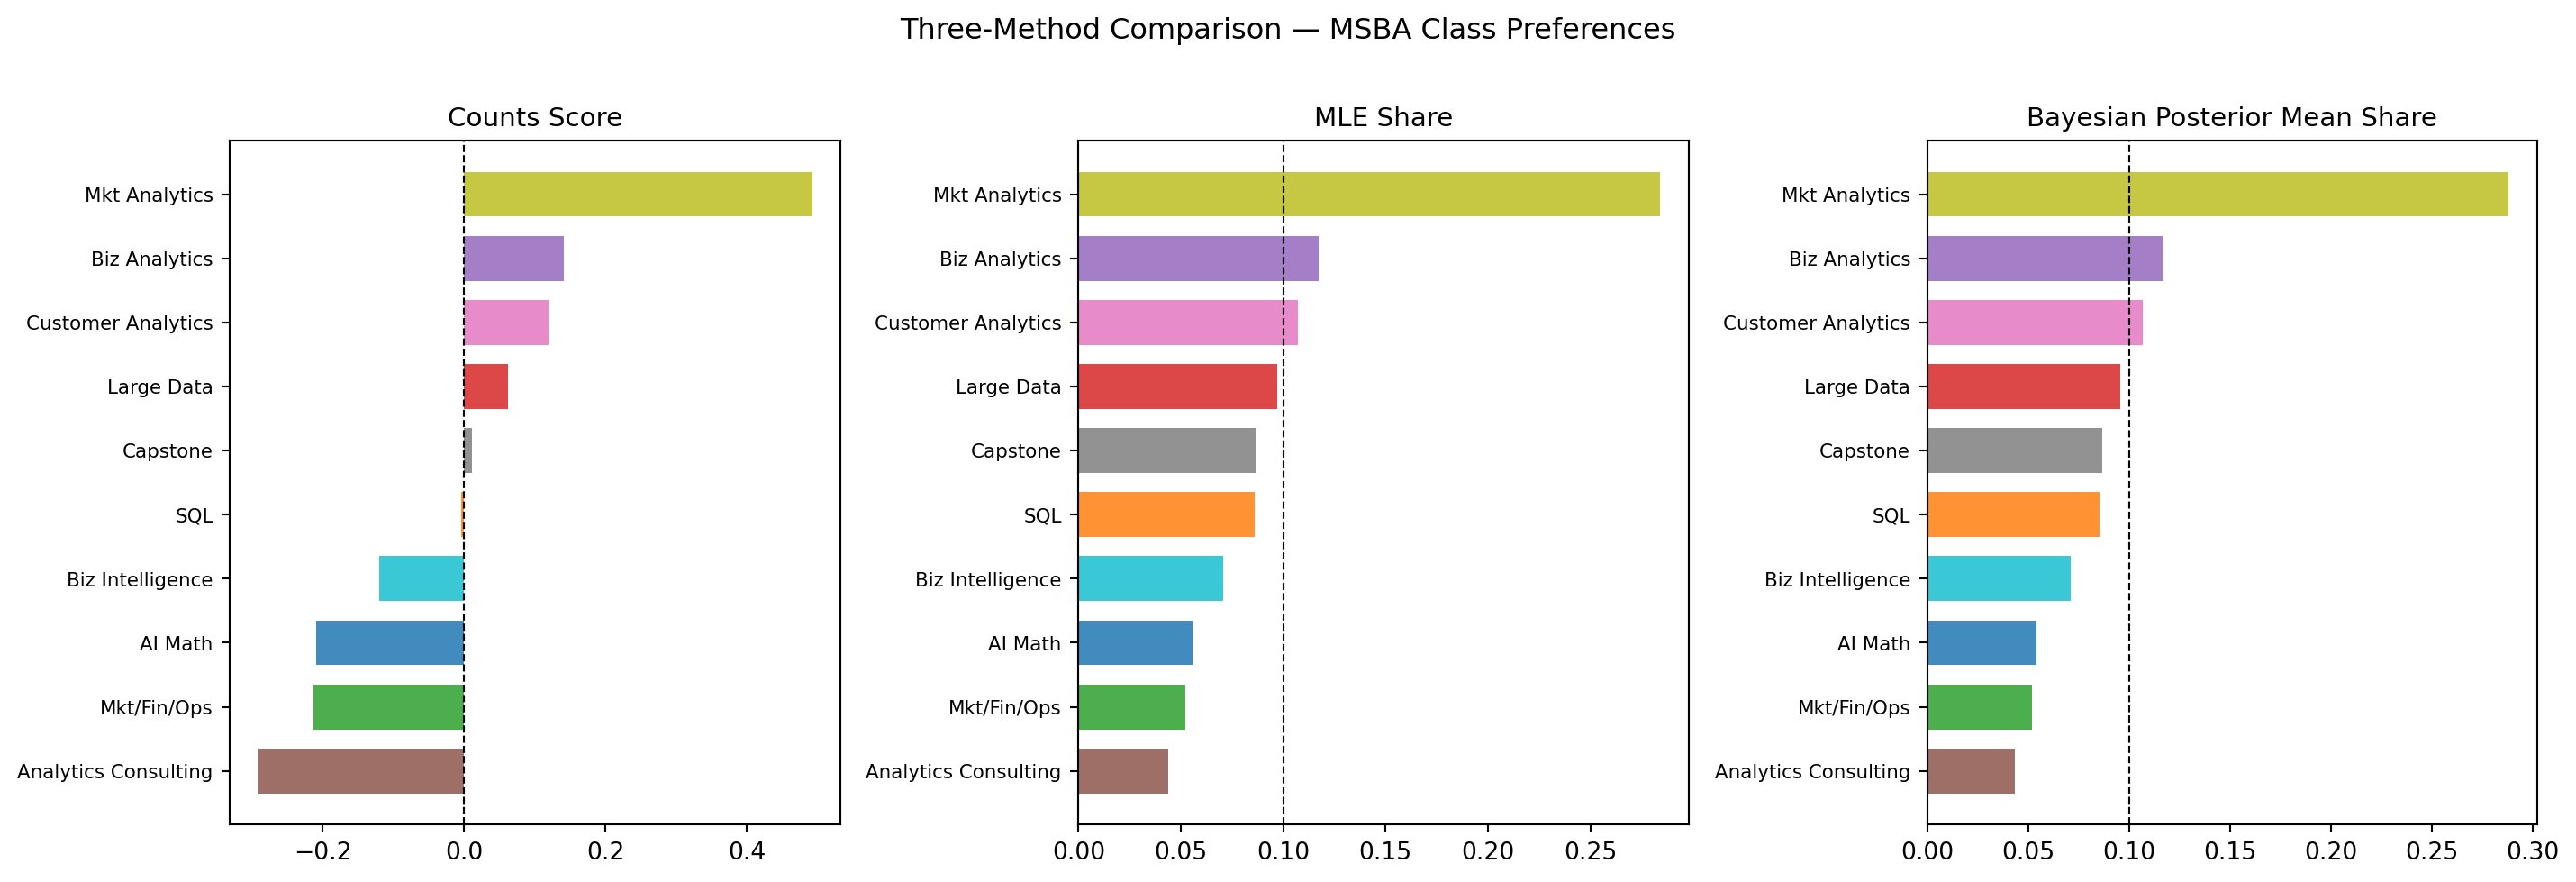
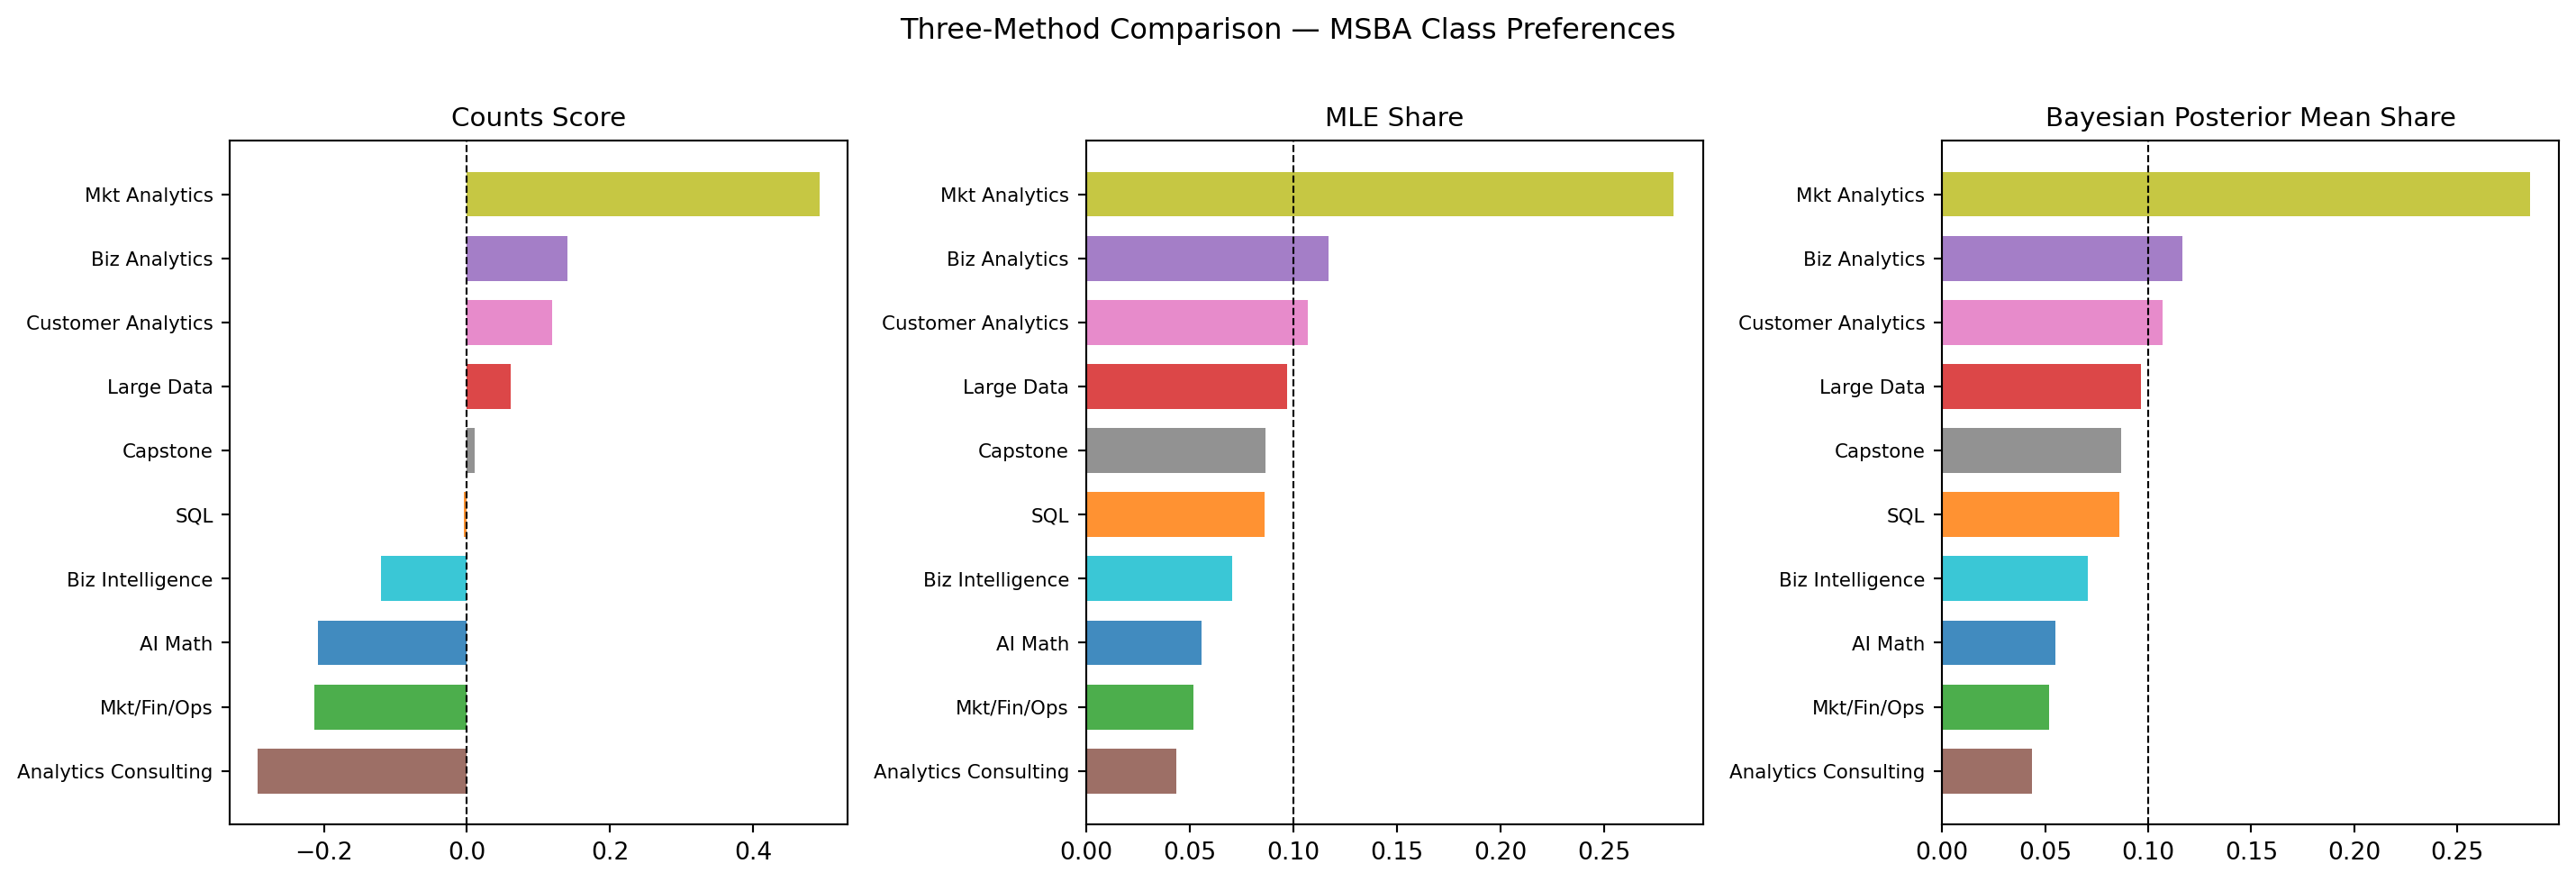
hw4 final

diff --git a/docs/hw4_questions.html b/docs/hw4_questions.html
@@ -274,7 +274,7 @@ window.Quarto = {
 </section>
 <section id="the-data" class="level2">
 <h2 class="anchored" data-anchor-id="the-data">The Data</h2>
-<div id="74975f25" class="cell" data-execution_count="1">
+<div id="7af2a63e" class="cell" data-execution_count="1">
 <details class="code-fold">
 <summary>Code</summary>
 <div class="code-copy-outer-scaffold"><div class="sourceCode cell-code" id="cb1"><pre class="sourceCode python code-with-copy"><code class="sourceCode python"><span id="cb1-1"><a href="#cb1-1" aria-hidden="true" tabindex="-1"></a><span class="im">import</span> pandas <span class="im">as</span> pd</span>
@@ -328,7 +328,7 @@ Total tasks           : 680</code></pre>
 </div>
 </div>
 <p>Note: the raw data contains a phantom “Item 11” with no label, appearing in truncated tasks of only 2 rows. These tasks are excluded — every retained task has exactly 4 rows, one best pick, and one worst pick.</p>
-<div id="[phone redacted]" class="cell" data-execution_count="2">
+<div id="45bf44ce" class="cell" data-execution_count="2">
 <details class="code-fold">
 <summary>Code</summary>
 <div class="code-copy-outer-scaffold"><div class="sourceCode cell-code" id="cb3"><pre class="sourceCode python code-with-copy"><code class="sourceCode python"><span id="cb3-1"><a href="#cb3-1" aria-hidden="true" tabindex="-1"></a><span class="co"># ── Sanity check ───────────────────────────────────────────────────────────────</span></span>
@@ -344,7 +344,7 @@ Total tasks           : 680</code></pre>
 Every task has exactly one worst: True</code></pre>
 </div>
 </div>
-<div id="e288dde3" class="cell" data-execution_count="3">
+<div id="8202c8a6" class="cell" data-execution_count="3">
 <details class="code-fold">
 <summary>Code</summary>
 <div class="code-copy-outer-scaffold"><div class="sourceCode cell-code" id="cb5"><pre class="sourceCode python code-with-copy"><code class="sourceCode python"><span id="cb5-1"><a href="#cb5-1" aria-hidden="true" tabindex="-1"></a><span class="co"># ── Exposure counts ────────────────────────────────────────────────────────────</span></span>
@@ -374,7 +374,7 @@ Every task has exactly one worst: True</code></pre>
 <p>The counts analysis is the simplest summary of MaxDiff data. For each item <span class="math inline">\(j\)</span>, we compute:</p>
 <p><span class="math display">\[\text{score}_j = \%\text{best}_j - \%\text{worst}_j\]</span></p>
 <p>where <span class="math inline">\(\%\text{best}_j\)</span> is the fraction of times item <span class="math inline">\(j\)</span> was picked best out of the times it was shown, and similarly for worst. A score near +1 means the item is almost always chosen as best; near −1, almost always chosen as worst; near 0, the item is middle-of-the-pack or polarizing.</p>
-<div id="1f2060ee" class="cell" data-execution_count="4">
+<div id="937a6993" class="cell" data-execution_count="4">
 <details class="code-fold">
 <summary>Code</summary>
 <div class="code-copy-outer-scaffold"><div class="sourceCode cell-code" id="cb7"><pre class="sourceCode python code-with-copy"><code class="sourceCode python"><span id="cb7-1"><a href="#cb7-1" aria-hidden="true" tabindex="-1"></a>item_stats <span class="op">=</span> df.groupby(<span class="st">"Item"</span>).agg(</span>
@@ -406,7 +406,7 @@ Every task has exactly one worst: True</code></pre>
     6 Analytics Consulting          267          33          111     0.124      0.416 -0.292</code></pre>
 </div>
 </div>
-<div id="aa815865" class="cell" data-execution_count="5">
+<div id="ccc8f090" class="cell" data-execution_count="5">
 <details class="code-fold">
 <summary>Code</summary>
 <div class="code-copy-outer-scaffold"><div class="sourceCode cell-code" id="cb9"><pre class="sourceCode python code-with-copy"><code class="sourceCode python"><span id="cb9-1"><a href="#cb9-1" aria-hidden="true" tabindex="-1"></a><span class="co"># ── Bootstrap 95% CIs on counts scores ────────────────────────────────────────</span></span>
@@ -460,7 +460,7 @@ Every task has exactly one worst: True</code></pre>
 </div>
 </div>
 </div>
-<p><strong>Observations:</strong> Marketing Analytics (MGTA 495) stands out as the clear top preference, with a large positive counts score. Customer Analytics (MGTA 455) and Large Data (MGTA 452) also rank highly. At the bottom, Analytics Consulting (MGTA 444) and the AI Math/Programming course (MGTA 403) are most frequently chosen as worst. SQL (MGTA 464) and Mkt/Fin/Ops (MGTA 451) sit in the middle. The bootstrap confidence intervals confirm that the top and bottom rankings are statistically reliable, while the middle cluster shows more overlap.</p>
+<p><strong>Observations:</strong> Marketing Analytics (MGTA 495) stands out as the clear top preference, with a large positive counts score. Customer Analytics (MGTA 455) and Large Data (MGTA 452) also rank highly. At the bottom, Analytics Consulting (MGTA 444) and the AI Math/Programming course (MGTA 403) are most frequently chosen as worst. SQL sits near the middle, while Mkt/Fin/Ops is closer to the lower end of the ranking. The bootstrap confidence intervals confirm that the top and bottom rankings are statistically reliable, while the middle cluster shows more overlap.</p>
 <hr>
 </section>
 <section id="from-maxdiff-data-to-mnl-choices" class="level2">
@@ -471,7 +471,7 @@ Every task has exactly one worst: True</code></pre>
 <p><span class="math display">\[P(\text{worst} = c \mid \text{best} = b) = \frac{\exp(-\beta_c)}{\exp(-\beta_a) + \exp(-\beta_c) + \exp(-\beta_d)}\]</span></p>
 <p>So each task yields <strong>two</strong> MNL observations: the best-pick from all 4 items, and the worst-pick from the remaining 3.</p>
 <p><strong>Identifiability:</strong> The softmax is invariant to adding a constant to every <span class="math inline">\(\beta\)</span>, so only <span class="math inline">\(J - 1 = 9\)</span> of the 10 coefficients are identified. We fix <span class="math inline">\(\beta_1 = 0\)</span> (MGTA 403 as reference) and estimate <span class="math inline">\(\beta_2, \ldots, \beta_{10}\)</span>.</p>
-<div id="c3c55853" class="cell" data-execution_count="6">
+<div id="90772b46" class="cell" data-execution_count="6">
 <details class="code-fold">
 <summary>Code</summary>
 <div class="code-copy-outer-scaffold"><div class="sourceCode cell-code" id="cb10"><pre class="sourceCode python code-with-copy"><code class="sourceCode python"><span id="cb10-1"><a href="#cb10-1" aria-hidden="true" tabindex="-1"></a><span class="co"># ── Build task arrays (vectorized, for speed) ──────────────────────────────────</span></span>
@@ -508,7 +508,7 @@ Every task has exactly one worst: True</code></pre>
 <p>The log-likelihood, summing over all tasks, is:</p>
 <p><span class="math display">\[\ell(\boldsymbol{\beta}) = \sum_{\text{tasks}} \Big[\, \beta_{j^*_b} - \log\!\!\sum_{j \in \text{shown}}\!\!\exp(\beta_j) - \beta_{j^*_w} - \log\!\!\!\!\!\sum_{j \in \text{shown} \setminus \{j^*_b\}}\!\!\!\!\exp(-\beta_j) \,\Big]\]</span></p>
 <p>where <span class="math inline">\(j^*_b\)</span> is the best-picked item and <span class="math inline">\(j^*_w\)</span> is the worst-picked item in that task. We use the log-sum-exp trick throughout for numerical stability.</p>
-<div id="97385cd7" class="cell" data-execution_count="7">
+<div id="5d58ade7" class="cell" data-execution_count="7">
 <details class="code-fold">
 <summary>Code</summary>
 <div class="code-copy-outer-scaffold"><div class="sourceCode cell-code" id="cb12"><pre class="sourceCode python code-with-copy"><code class="sourceCode python"><span id="cb12-1"><a href="#cb12-1" aria-hidden="true" tabindex="-1"></a><span class="im">from</span> scipy.optimize <span class="im">import</span> minimize</span>
@@ -579,7 +579,7 @@ Every task has exactly one worst: True</code></pre>
     6 Analytics Consulting -0.239 0.141  0.044</code></pre>
 </div>
 </div>
-<div id="b64f381a" class="cell" data-execution_count="8">
+<div id="78eac6bb" class="cell" data-execution_count="8">
 <details class="code-fold">
 <summary>Code</summary>
 <div class="code-copy-outer-scaffold"><div class="sourceCode cell-code" id="cb14"><pre class="sourceCode python code-with-copy"><code class="sourceCode python"><span id="cb14-1"><a href="#cb14-1" aria-hidden="true" tabindex="-1"></a><span class="co"># ── Plot MLE shares ────────────────────────────────────────────────────────────</span></span>
@@ -613,7 +613,7 @@ Every task has exactly one worst: True</code></pre>
 <p><span class="math display">\[\pi(\boldsymbol{\beta} \mid \boldsymbol{y}) \;\propto\; L(\boldsymbol{\beta}) \cdot \pi(\boldsymbol{\beta})\]</span></p>
 <p>We use a weakly informative prior: <span class="math inline">\(\beta_j \sim N(0, 10)\)</span> for each of the 9 free parameters. This places 95% of prior probability in <span class="math inline">\([-6.2, 6.2]\)</span>, which is very diffuse relative to the MLE estimates.</p>
 <p>We draw from the posterior using a <strong>random-walk Metropolis-Hastings</strong> sampler: at each step, we propose <span class="math inline">\(\boldsymbol{\beta}^* = \boldsymbol{\beta} + \epsilon\)</span> where <span class="math inline">\(\epsilon \sim N(\mathbf{0}, \sigma^2 I)\)</span>, and accept with probability <span class="math inline">\(\min(1,\; e^{\log\pi(\boldsymbol{\beta}^*) - \log\pi(\boldsymbol{\beta})})\)</span>.</p>
-<div id="e578cde5" class="cell" data-execution_count="9">
+<div id="8d524e2c" class="cell" data-execution_count="9">
 <details class="code-fold">
 <summary>Code</summary>
 <div class="code-copy-outer-scaffold"><div class="sourceCode cell-code" id="cb15"><pre class="sourceCode python code-with-copy"><code class="sourceCode python"><span id="cb15-1"><a href="#cb15-1" aria-hidden="true" tabindex="-1"></a><span class="kw">def</span> log_prior(beta):</span>
@@ -624,7 +624,7 @@ Every task has exactly one worst: True</code></pre>
 <span id="cb15-6"><a href="#cb15-6" aria-hidden="true" tabindex="-1"></a></span>
 <span id="cb15-7"><a href="#cb15-7" aria-hidden="true" tabindex="-1"></a>np.random.seed(<span class="dv">42</span>)</span>
 <span id="cb15-8"><a href="#cb15-8" aria-hidden="true" tabindex="-1"></a>n_iter  <span class="op">=</span> <span class="dv">20000</span></span>
-<span id="cb15-9"><a href="#cb15-9" aria-hidden="true" tabindex="-1"></a>step    <span class="op">=</span> <span class="fl">0.15</span>   <span class="co"># tuned to ~30% acceptance</span></span>
+<span id="cb15-9"><a href="#cb15-9" aria-hidden="true" tabindex="-1"></a>step <span class="op">=</span> <span class="fl">0.08</span>  <span class="co"># tuned to ~30% acceptance</span></span>
 <span id="cb15-10"><a href="#cb15-10" aria-hidden="true" tabindex="-1"></a>K       <span class="op">=</span> <span class="dv">9</span></span>
 <span id="cb15-11"><a href="#cb15-11" aria-hidden="true" tabindex="-1"></a>beta    <span class="op">=</span> np.zeros(K)</span>
 <span id="cb15-12"><a href="#cb15-12" aria-hidden="true" tabindex="-1"></a>lp      <span class="op">=</span> log_post(beta)</span>
@@ -644,10 +644,10 @@ Every task has exactly one worst: True</code></pre>
 <span id="cb15-26"><a href="#cb15-26" aria-hidden="true" tabindex="-1"></a><span class="bu">print</span>(<span class="ss">f"Acceptance rate: </span><span class="sc">{</span>accept_rate<span class="sc">:.3f}</span><span class="ss">"</span>)</span></code></pre></div><button title="Copy to Clipboard" class="code-copy-button"><i class="bi"></i></button></div>
 </details>
 <div class="cell-output cell-output-stdout">
-<pre><code>Acceptance rate: 0.062</code></pre>
+<pre><code>Acceptance rate: 0.293</code></pre>
 </div>
 </div>
-<div id="8f0296ba" class="cell" data-execution_count="10">
+<div id="cc250ed2" class="cell" data-execution_count="10">
 <details class="code-fold">
 <summary>Code</summary>
 <div class="code-copy-outer-scaffold"><div class="sourceCode cell-code" id="cb17"><pre class="sourceCode python code-with-copy"><code class="sourceCode python"><span id="cb17-1"><a href="#cb17-1" aria-hidden="true" tabindex="-1"></a><span class="co"># ── Diagnostics: trace plots ───────────────────────────────────────────────────</span></span>
@@ -673,13 +673,13 @@ Every task has exactly one worst: True</code></pre>
 <div class="cell-output cell-output-display">
 <div>
 <figure class="figure">
-<p><img src="hw4_questions_files/figure-html/cell-11-output-1.png" width="941" height="569" class="figure-img"></p>
+<p><img src="hw4_questions_files/figure-html/cell-11-output-1.png" width="958" height="569" class="figure-img"></p>
 </figure>
 </div>
 </div>
 </div>
 <p>The chains show the characteristic “fuzzy caterpillar” pattern after burn-in, indicating the sampler has mixed well. There is no visible drift or slow wandering.</p>
-<div id="1bbd1ec5" class="cell" data-execution_count="11">
+<div id="4ffeee43" class="cell" data-execution_count="11">
 <details class="code-fold">
 <summary>Code</summary>
 <div class="code-copy-outer-scaffold"><div class="sourceCode cell-code" id="cb18"><pre class="sourceCode python code-with-copy"><code class="sourceCode python"><span id="cb18-1"><a href="#cb18-1" aria-hidden="true" tabindex="-1"></a><span class="co"># ── Posterior summaries ────────────────────────────────────────────────────────</span></span>
@@ -714,19 +714,19 @@ Every task has exactly one worst: True</code></pre>
 </details>
 <div class="cell-output cell-output-stdout">
 <pre><code> Item                Label  post_mean  ci_lo  ci_hi  share  share_lo  share_hi
-    9        Mkt Analytics      1.677  1.394  1.959  0.288     0.245     0.334
-    5        Biz Analytics      0.771  0.498  1.051  0.117     0.094     0.140
-    7   Customer Analytics      0.684  0.423  0.953  0.107     0.088     0.130
-    4           Large Data      0.574  0.321  0.868  0.096     0.080     0.116
-    8             Capstone      0.475  0.209  0.734  0.087     0.071     0.103
-    2                  SQL      0.460  0.215  0.716  0.085     0.071     0.103
-   10     Biz Intelligence      0.274  0.017  0.557  0.071     0.058     0.085
-    1              AI Math      0.000    NaN    NaN  0.054     0.045     0.065
-    3          Mkt/Fin/Ops     -0.039 -0.312  0.225  0.052     0.043     0.063
-    6 Analytics Consulting     -0.217 -0.508  0.012  0.043     0.035     0.052</code></pre>
+    9        Mkt Analytics      1.648  1.345  1.920  0.285     0.242     0.331
+    5        Biz Analytics      0.753  0.463  1.026  0.117     0.096     0.139
+    7   Customer Analytics      0.668  0.370  0.938  0.107     0.087     0.129
+    4           Large Data      0.562  0.291  0.836  0.096     0.080     0.117
+    8             Capstone      0.458  0.181  0.738  0.087     0.071     0.106
+    2                  SQL      0.449  0.180  0.725  0.086     0.071     0.103
+   10     Biz Intelligence      0.254 -0.007  0.499  0.071     0.058     0.085
+    1              AI Math      0.000    NaN    NaN  0.055     0.045     0.068
+    3          Mkt/Fin/Ops     -0.055 -0.328  0.244  0.052     0.042     0.064
+    6 Analytics Consulting     -0.234 -0.504  0.049  0.044     0.035     0.053</code></pre>
 </div>
 </div>
-<div id="60f61025" class="cell" data-execution_count="12">
+<div id="f6efc575" class="cell" data-execution_count="12">
 <details class="code-fold">
 <summary>Code</summary>
 <div class="code-copy-outer-scaffold"><div class="sourceCode cell-code" id="cb20"><pre class="sourceCode python code-with-copy"><code class="sourceCode python"><span id="cb20-1"><a href="#cb20-1" aria-hidden="true" tabindex="-1"></a><span class="co"># ── Plot Bayesian shares with CIs ──────────────────────────────────────────────</span></span>
@@ -763,7 +763,7 @@ Every task has exactly one worst: True</code></pre>
 </section>
 <section id="comparing-the-three-methods" class="level2">
 <h2 class="anchored" data-anchor-id="comparing-the-three-methods">Comparing the Three Methods</h2>
-<div id="c71aaf6b" class="cell" data-execution_count="13">
+<div id="c8309ace" class="cell" data-execution_count="13">
 <details class="code-fold">
 <summary>Code</summary>
 <div class="code-copy-outer-scaffold"><div class="sourceCode cell-code" id="cb21"><pre class="sourceCode python code-with-copy"><code class="sourceCode python"><span id="cb21-1"><a href="#cb21-1" aria-hidden="true" tabindex="-1"></a><span class="co"># ── Build comparison table ─────────────────────────────────────────────────────</span></span>
@@ -788,19 +788,19 @@ Every task has exactly one worst: True</code></pre>
 </details>
 <div class="cell-output cell-output-stdout">
 <pre><code> Item                Label  counts_score  counts_rank  mle_share  mle_rank  bayes_share  bayes_rank
-    9        Mkt Analytics         0.493            1      0.284         1        0.288           1
+    9        Mkt Analytics         0.493            1      0.284         1        0.285           1
     5        Biz Analytics         0.141            2      0.117         2        0.117           2
     7   Customer Analytics         0.120            3      0.107         3        0.107           3
     4           Large Data         0.062            4      0.097         4        0.096           4
     8             Capstone         0.011            5      0.087         5        0.087           5
-    2                  SQL        -0.004            6      0.086         6        0.085           6
+    2                  SQL        -0.004            6      0.086         6        0.086           6
    10     Biz Intelligence        -0.120            7      0.070         7        0.071           7
-    1              AI Math        -0.209            8      0.056         8        0.054           8
+    1              AI Math        -0.209            8      0.056         8        0.055           8
     3          Mkt/Fin/Ops        -0.213            9      0.052         9        0.052           9
-    6 Analytics Consulting        -0.292           10      0.044        10        0.043          10</code></pre>
+    6 Analytics Consulting        -0.292           10      0.044        10        0.044          10</code></pre>
 </div>
 </div>
-<div id="a6ebc81d" class="cell" data-execution_count="14">
+<div id="b8823ca8" class="cell" data-execution_count="14">
 <details class="code-fold">
 <summary>Code</summary>
 <div class="code-copy-outer-scaffold"><div class="sourceCode cell-code" id="cb23"><pre class="sourceCode python code-with-copy"><code class="sourceCode python"><span id="cb23-1"><a href="#cb23-1" aria-hidden="true" tabindex="-1"></a><span class="co"># ── Side-by-side bar charts ────────────────────────────────────────────────────</span></span>
@@ -857,7 +857,7 @@ Every task has exactly one worst: True</code></pre>
 </section>
 <section id="discussion" class="level2">
 <h2 class="anchored" data-anchor-id="discussion">Discussion</h2>
-<p><strong>Substantive finding:</strong> MSBA students most strongly prefer Marketing Analytics (MGTA 495, Yavorsky) and Customer Analytics (MGTA 455, Nijs) — both of which are elective-style, applied analytics courses with direct career relevance. Large Data (MGTA 452) also ranks highly, likely because data engineering skills are highly valued in the job market. At the other end, Analytics Consulting and the foundational AI Math course are least preferred, perhaps because students view them as less directly applicable or enjoyable relative to the rest of the curriculum.</p>
+<p><strong>Substantive finding:</strong> MSBA students most strongly prefer Marketing Analytics (MGTA 495, Yavorsky) and Customer Analytics (MGTA 455, Nijs) — both of which are elective-style, applied analytics courses with direct career relevance. Large Data (MGTA 452) also ranks highly, likely because data engineering skills are highly valued in the job market. At the other end, Analytics Consulting, Mkt/Fin/Ops, and AI Math form the lowest-ranked group, perhaps because students view them as less directly applicable or enjoyable relative to the rest of the curriculum.</p>
 <p><strong>Methodological takeaways:</strong></p>
 <ul>
 <li><strong>Counts analysis</strong> is fast and transparent — a good first pass or executive summary. It requires no modeling assumptions.</li>